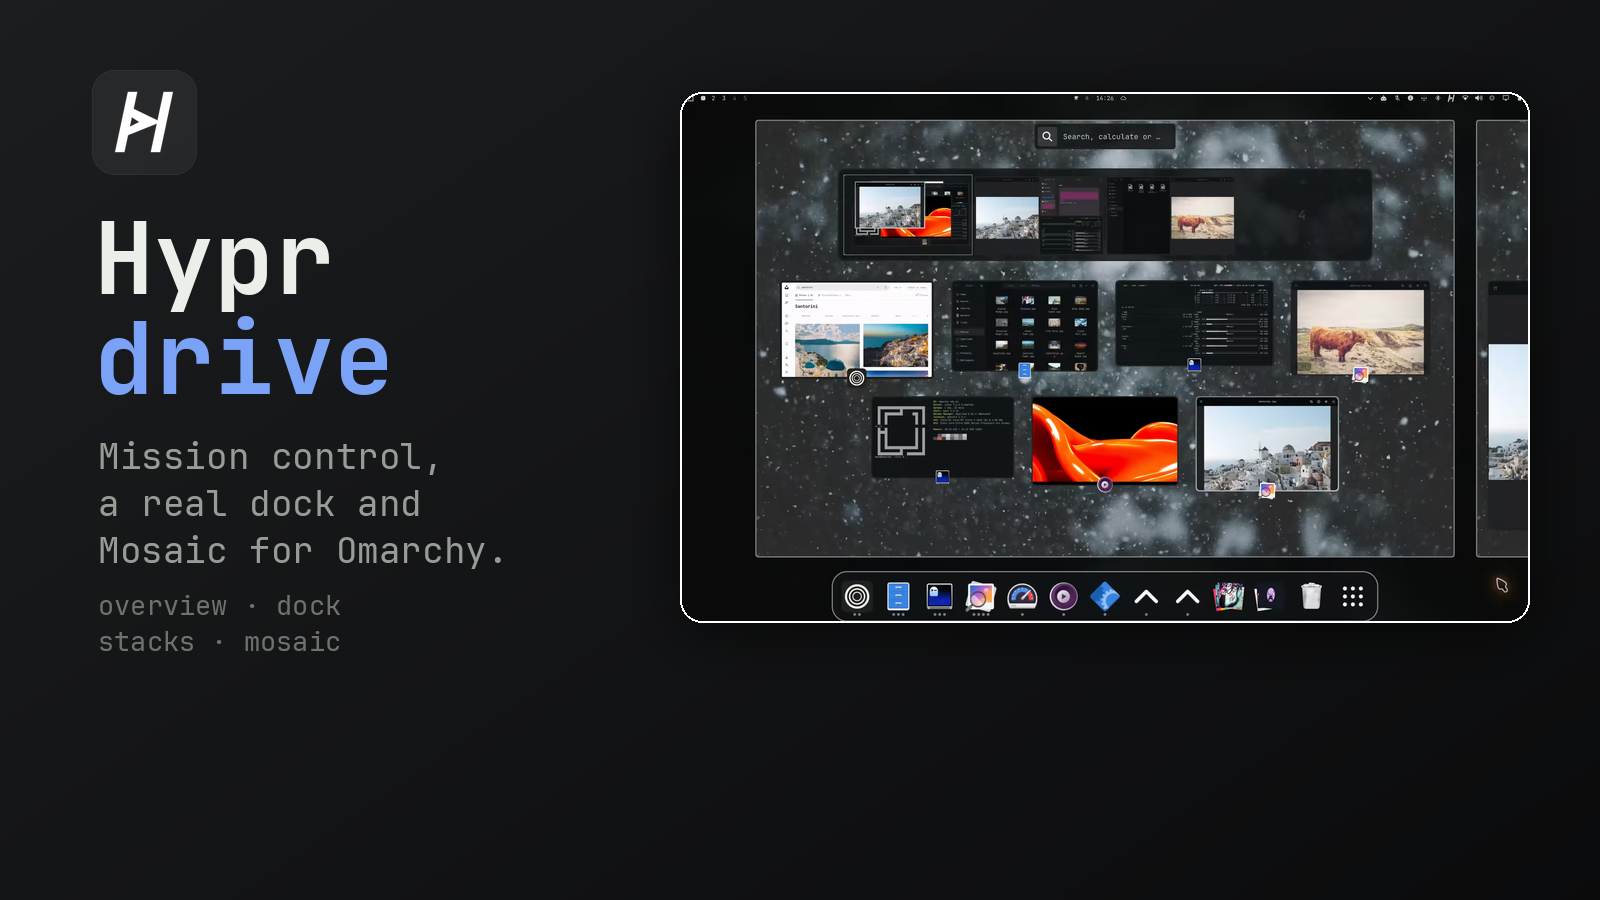
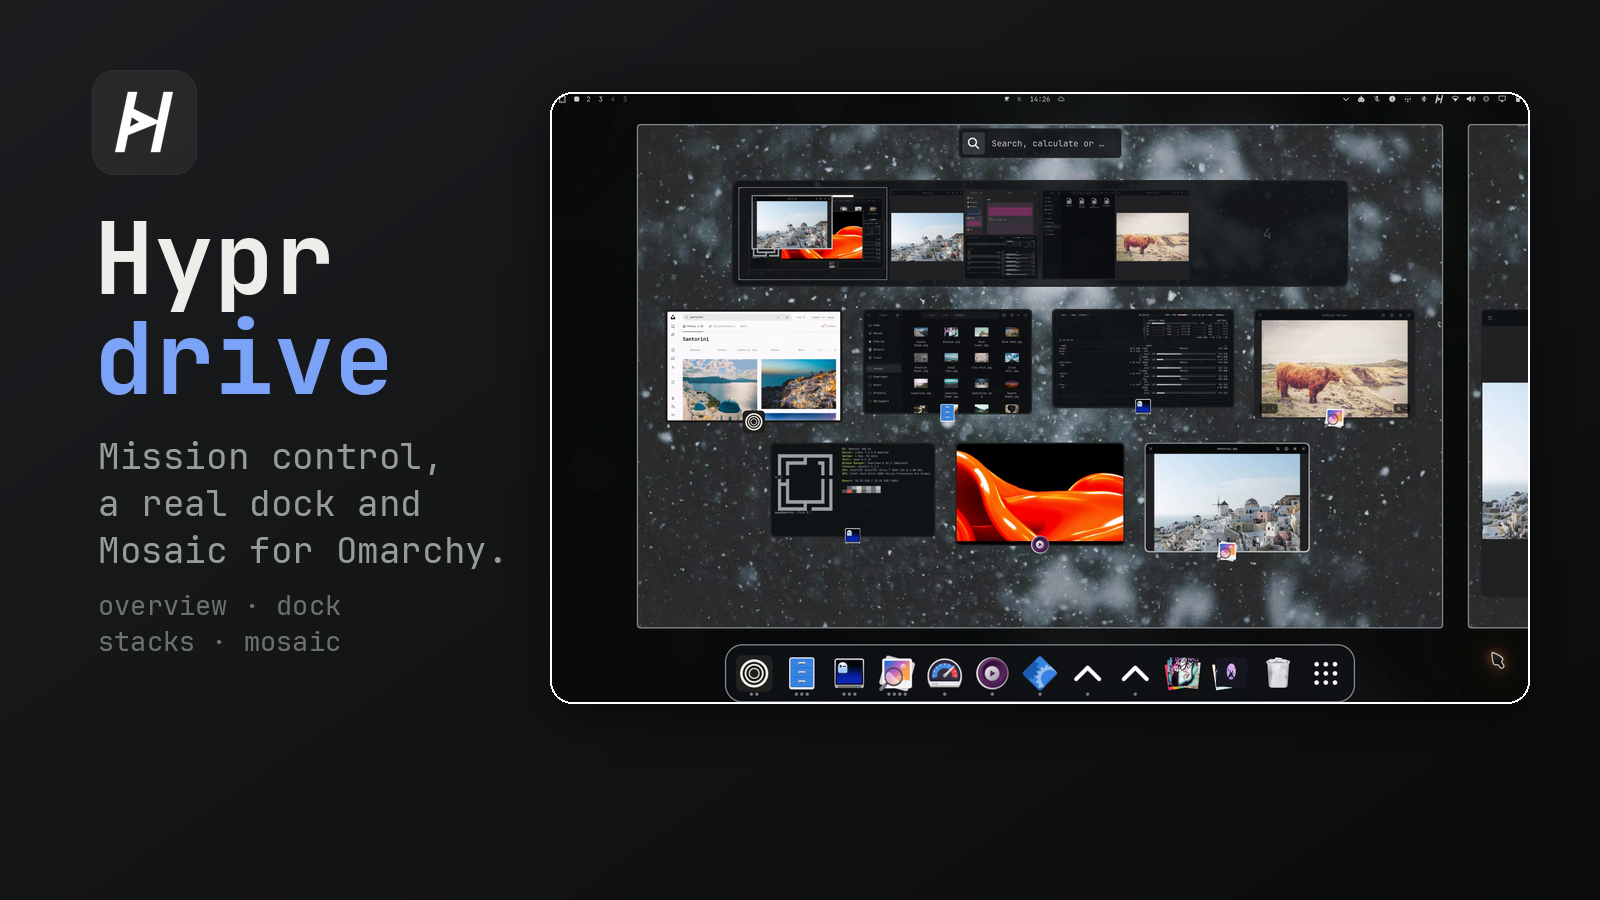
chore: bigger screenshot on the marketplace card
Claude-Session: https://claude.ai/code/session_018rhTLmF6iqrz69D8DKVDtm

Changed region(s): [[0.375, 0.0933, 0.9688, 0.8089], [0.3438, 0.0933, 0.375, 0.1244]]

diff --git a/README.md b/README.md
@@ -177,7 +177,7 @@ the overview frame of the Hyprdrive film (`C00-v3t1`) and the panel icon:
 make_preview.py --shot overview.png --icon omarchy-plugin/hyprdrive-icon.png \
   --name Hypr --name2 drive --accent '#7aa2f7' \
   --tagline 'Mission control,|a real dock and|Mosaic for Omarchy.' \
-  --features 'overview · dock|stacks · mosaic' --out preview.png
+  --features 'overview · dock|stacks · mosaic' --shot-width 980 --out preview.png
 ```
 
 ## Building from a checkout
